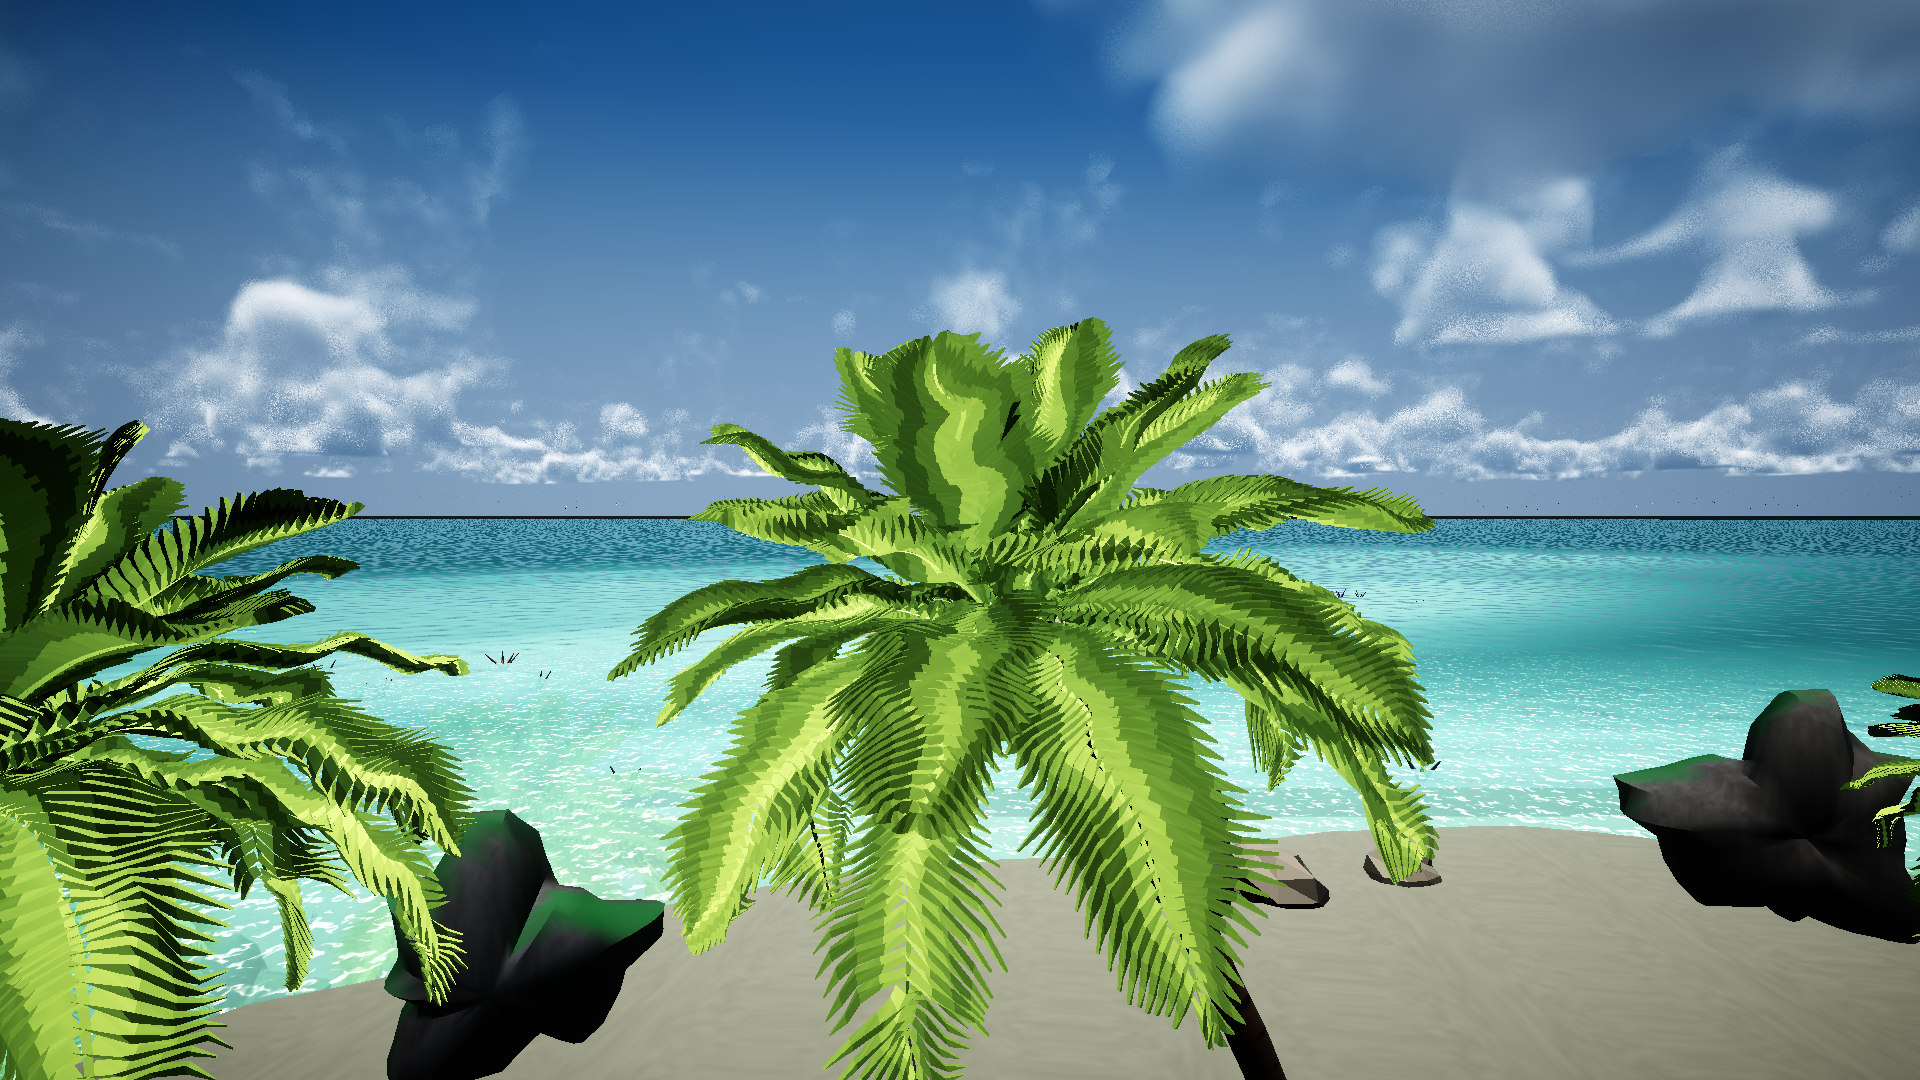
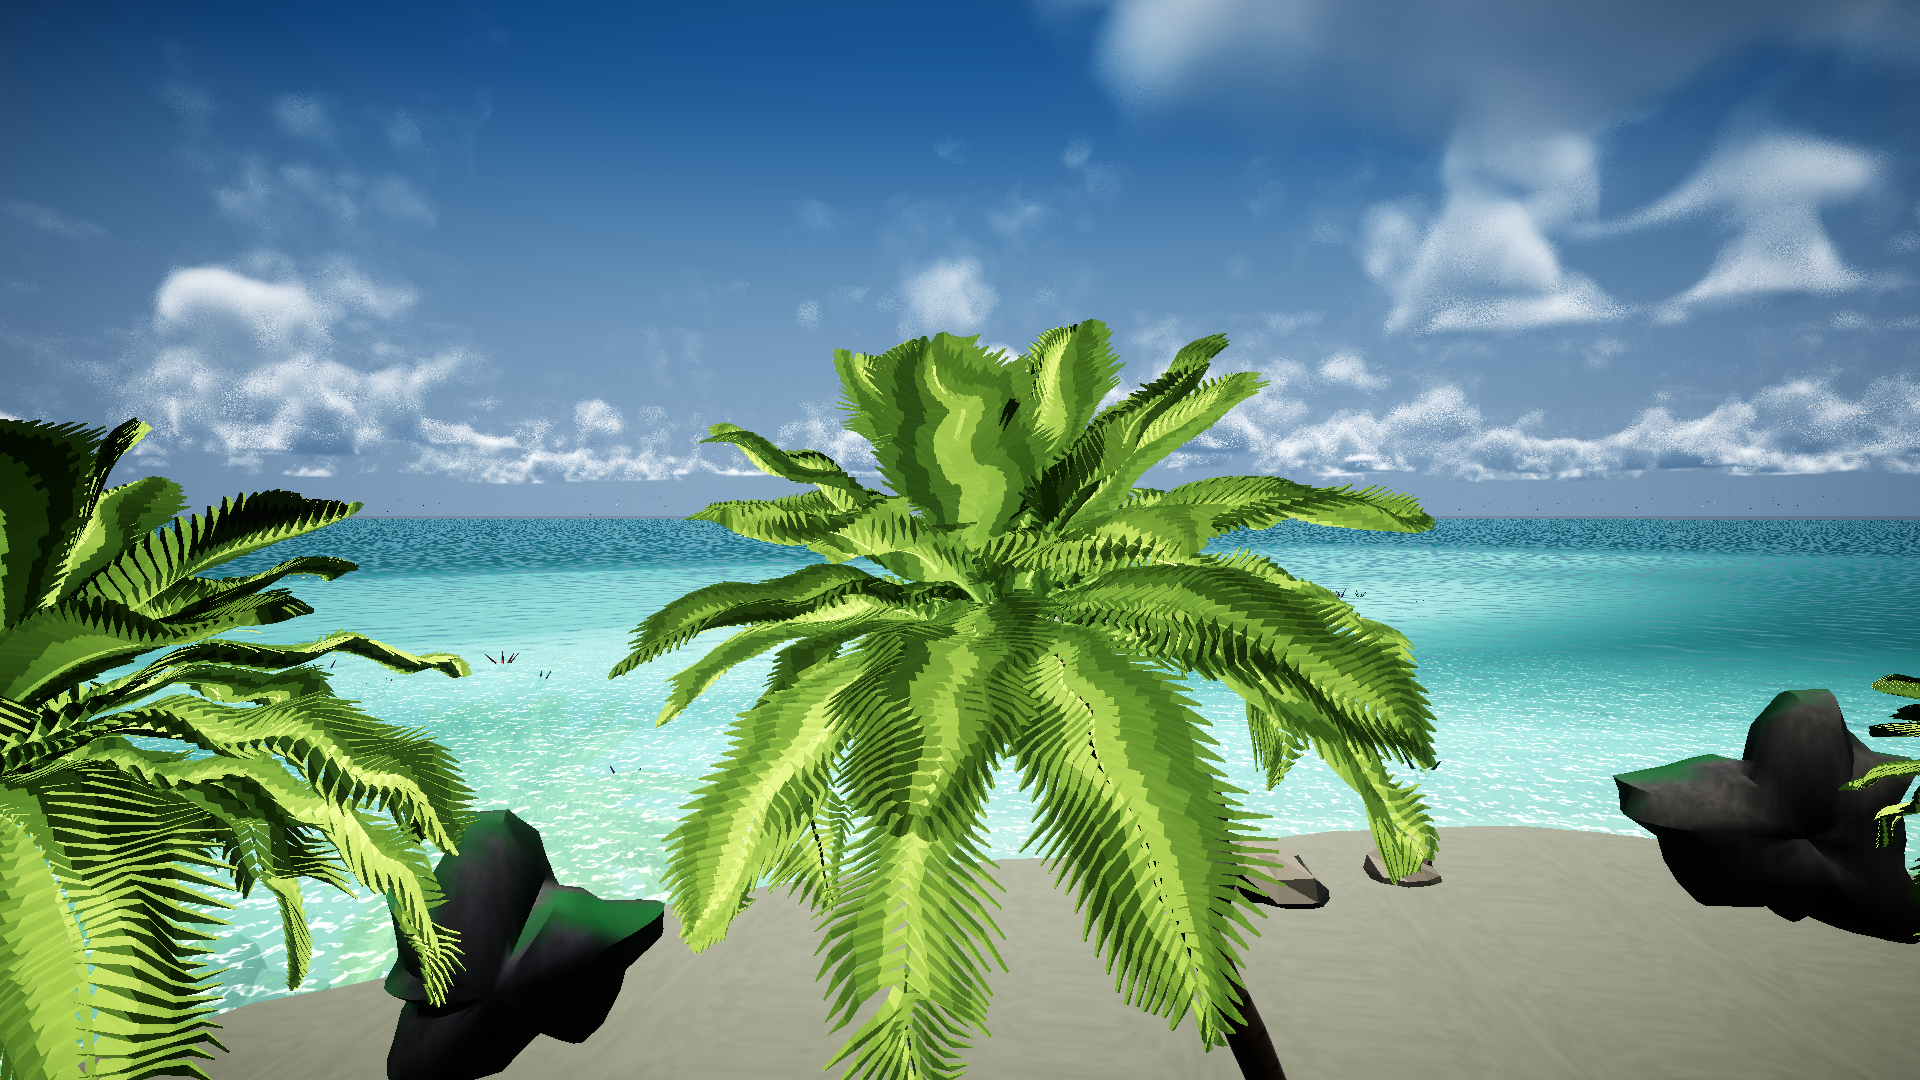
fix(R84): Islet 地平线暗线 = 天空 _GroundColor 太深. ①关水面对照: 地平线行亮度 52 vs 51(水关) => 不是水 ②定位 Sky_Tropical 第263行 if(d.y<0) return _GroundColor; 材质值(0.18,0.23,0.26) 深青, 与地平线色(0.7,0.8,0.91)差一档 ③改(0.58,0.68,0.78): 该行亮度 52->101, 与上下行118/108连续, 暗线消失 ④Islet 基线 129.1/52.9/119.9/近黑4.49/爆白0.36

diff --git a/Docs/学习路径与知识库/检测报告/R56_场景画质与采集口径.md b/Docs/学习路径与知识库/检测报告/R56_场景画质与采集口径.md
@@ -465,3 +465,24 @@ Ocean 新基线：**132.1 / 42.7 / 115.7 / 近黑 0.79**。
 
 **新发现**：Islet 画面在地平线处有一条**细暗线**（水面在掠射角下的深色带），
 已记档，下一轮处理。
+
+---
+
+## R84：Islet 地平线暗线 = 天空的"地面半色"
+
+诊断（关水面对照）：
+
+| 行（占画面高度） | 水面开 | 水面关 |
+| --- | --- | --- |
+| 46% | 116 | 116 |
+| **48%** | **52** | **51** |
+| 50% | 108 | 47 |
+
+⇒ 关掉水面后暗线**仍在** ⇒ 不是水，是**天空 shader 在地平线以下的颜色**。
+
+`Sky_Tropical.shader` 第 263 行：`if (d.y < 0.0) return _GroundColor;`
+材质里 `_GroundColor = (0.18, 0.23, 0.26)`（深青）——与地平线色 (0.7,0.8,0.91) 差一整档。
+
+改成 `(0.58, 0.68, 0.78)` 后：地平线该行亮度 **52 → 101**，与上下行（118 / 108）连续，暗线消失。
+
+Islet 新基线：**129.1 / 52.9 / 119.9 / 近黑 4.49 / 爆白 0.36**。
